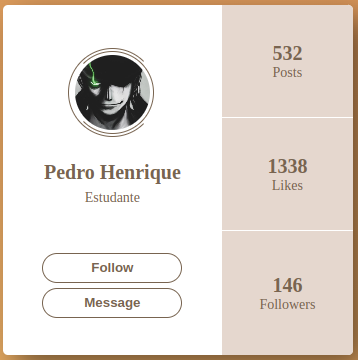
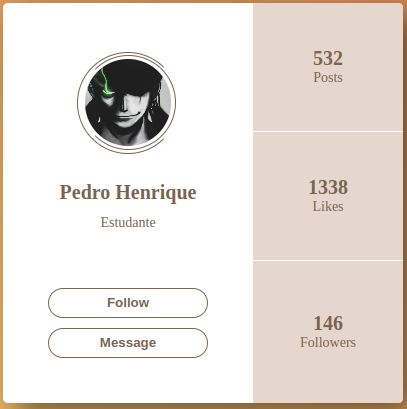
006-fixed

diff --git a/dia#006/assets/css/struct.css b/dia#006/assets/css/struct.css
@@ -1,6 +1,6 @@
 :root{
-    --width-card: 350px;
-    --height-card: 350px;
+    --width-card: 400px;
+    --height-card: 400px;
     --brown: #786450;
 }
 

diff --git a/README.md b/README.md
@@ -19,3 +19,7 @@
 ## 005
 
 ![005](./dia%23005/assets/img/005.png)
+
+## 006
+
+![006](./dia%23006/assets/img/006.png)
